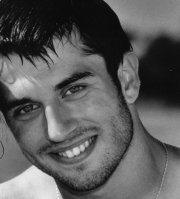
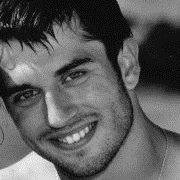
mise à jour du profil de Samir et de la page organisateur.html

diff --git a/organisateurs.html b/organisateurs.html
@@ -36,62 +36,75 @@
 			</div>
 		  </div>
 		</div>
-		
 		<div class="container">
-			<div class="row-fuild" style="text-align:center; margin-bottom:20px;">
-				<h1> L'équipe d'organisation de l'Agile Tour Bordeaux </h1>
-			</div>
+			<div class="row-fuild" style="text-align:center;">           
 
-	<ul class="polaroids">
-		<li>
-			<a href="http://www.michaelborde.fr/" title="Michael Borde">
-				<img src="img/profils/mb.jpg" alt="Michael Borde">
-			</a>
-		</li>
-		<li>
-			<a href="https://twitter.com/bodysplash" title="Jean-Baptiste Dusseaut">
-				<img src="img/profils/jbd.png" alt="Jean-Baptiste Dusseaut">
-			</a>
-		</li>
-		<li>
-			<a href="http://fr.linkedin.com/in/bastiengallay" title="Bastien Gallay">
-				<img src="img/profils/bg.jpg" alt="Bastien Gallay">
-			</a>
-		</li>
-		<li>
-			<a href="https://twitter.com/florianguerin" title="Florian Guérin">
-				<img src="img/profils/fg.jpg" alt="Florian Guérin">
-			</a>
-		</li>
-		<li>
-			<a href="#" title="Samir Hanna">
-				<img src="img/profils/sh.jpg" alt="Samir Hanna">
-			</a>
-		</li>
-		<li>
-			<a href="http://ayeba.fr/" title="Alexis Monville">
-				<img src="img/profils/am.png" alt="Alexis Monville">
-			</a>
-		</li>
-		<li>
-			<a href="https://twitter.com/roux_jerome" title="Jérôme Roux">
-				<img src="img/profils/jr.jpg" alt="Jérôme Roux">
-			</a>
-		</li>
-		<li>
-			<a href="http://fr.viadeo.com/fr/profile/mickael.ruellan" title="Mickael Ruellan">
-				<img src="img/profils/mr.png" alt="Mickael Ruellan">
-			</a>
-		</li>
-		<li>
-			<a href="http://www.vincentguillaume.fr/apropos/" title="Guillaume Vincent">
-				<img src="img/profils/gv.jpg" alt="Guillaume Vincent">
-			</a>
-		</li>
+			<h1> L'équipe d'organisation de l'Agile Tour Bordeaux </h1>
 
-	</ul>
 
-</div>
+			<ul class="polaroids">
+					<li>
+						<a href="http://fr.linkedin.com/in/bastiengallay" title="Bastien Gallay">
+							<img src="img/profils/bg.jpg" alt="Bastien Gallay">
+						</a>
+					</li>
+					<li>
+						<a href="https://twitter.com/florianguerin" title="Florian Guérin">
+							<img src="img/profils/fg.jpg" alt="Florian Guérin">
+						</a>
+					</li>
+					<li>
+						<a href="http://agilefeedback.blogspot.fr/" title="Samir Hanna">
+							<img src="img/profils/sh.png" alt="Samir Hanna">
+						</a>
+					</li>
+					<li>
+						<a href="https://twitter.com/roux_jerome" title="Jérôme Roux">
+							<img src="img/profils/jr.jpg" alt="Jérôme Roux">
+						</a>
+					</li>
+					<li>
+						<a href="http://fr.viadeo.com/fr/profile/mickael.ruellan" title="Mickael Ruellan">
+							<img src="img/profils/mr.png" alt="Mickael Ruellan">
+						</a>
+					</li>
+					<li>
+						<a href="http://www.vincentguillaume.fr/apropos/" title="Guillaume Vincent">
+							<img src="img/profils/gv.jpg" alt="Guillaume Vincent">
+						</a>
+					</li>
+
+				</ul>
+
+			</div>			
+		</div>
+
+		<div class="container">
+			<div class="row-fuild" style="text-align:center;">           
+
+				<h1> Ils ont participé... </h1>
+
+				<ul class="polaroids"
+					<li>
+						<a href="http://www.michaelborde.fr/" title="Michael Borde">
+							<img src="img/profils/mb.jpg" alt="Michael Borde">
+						</a>
+					</li>
+					<li>
+						<a href="https://twitter.com/bodysplash" title="Jean-Baptiste Dusseaut">
+							<img src="img/profils/jbd.png" alt="Jean-Baptiste Dusseaut">
+						</a>
+					</li>
+					<li>
+						<a href="http://ayeba.fr/" title="Alexis Monville">
+							<img src="img/profils/am.png" alt="Alexis Monville">
+						</a>
+					</li>
+				</ul>
+
+			</div>			
+		</div>
+
 		<div class="container" style="magin-top: 20px;">
 			<div class="row-fuild" style="text-align:center;">           
 				<small>L'Agile Tour Bordeaux est un évènement propulsé par <a href="http://okiwi.org">Okiwi</a></small>
